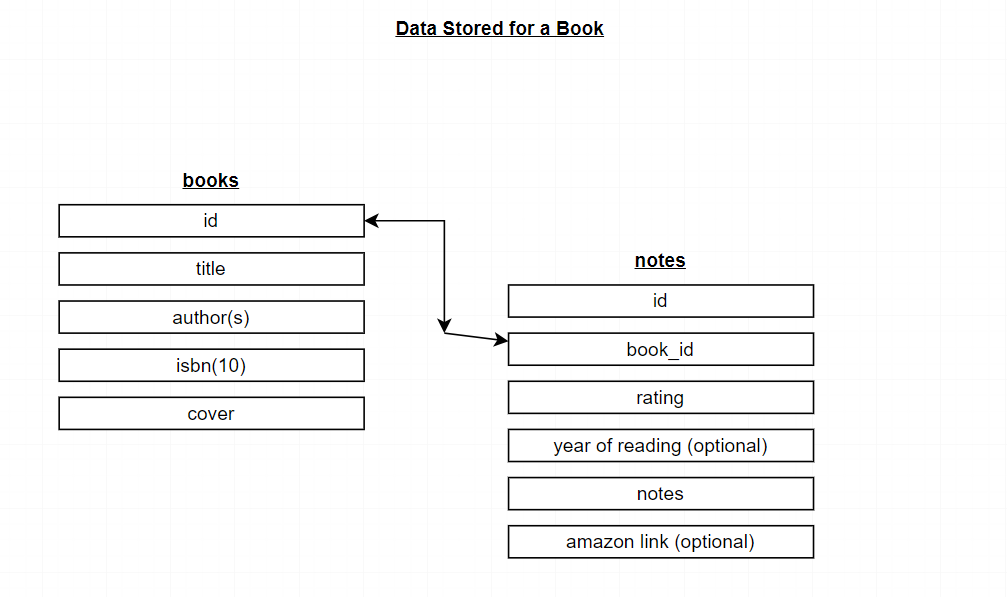
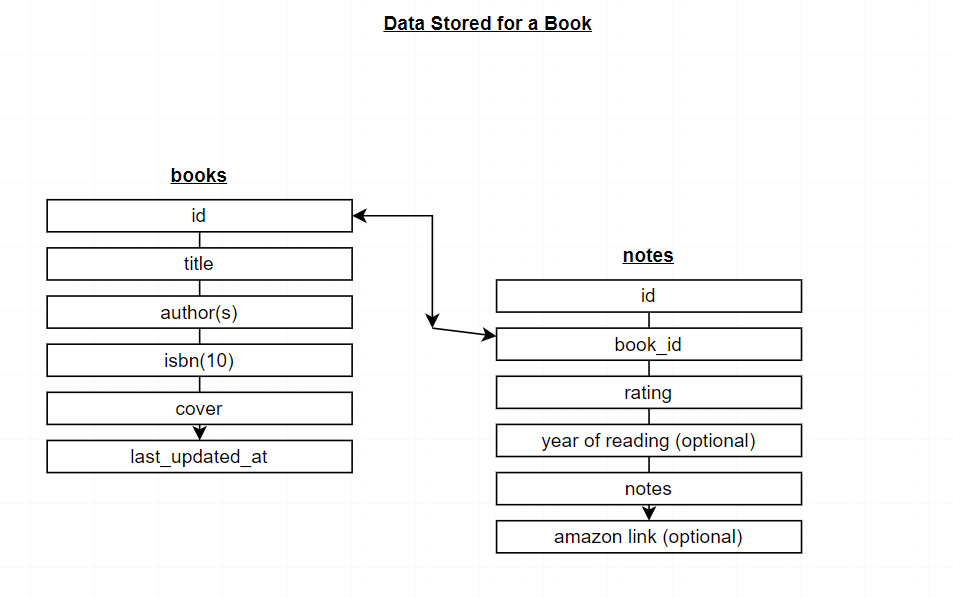
updated database structure

Changed region(s): [[0.0304, 0.2714, 0.852, 0.9347], [0.3956, 0.0302, 0.639, 0.0603]]

diff --git a/server.js b/server.js
@@ -24,7 +24,7 @@ db.connect();
 app.use(bodyParser.urlencoded({ extended: true}));
 app.use(express.static("public"));
 
-const OrderBooksAndNotesBy = "notes.id DESC"; // recency, latest updated notes (default)
+const OrderBooksAndNotesBy = "books.last_updated_at DESC"; // recency, latest updated notes (default)
 
 async function checkBookAndNotes() {
     let booksAndNotes = [];
@@ -126,14 +126,6 @@ app.post("/create-new-notes", async (req, res) => {
     res.redirect("/");
 });
 
-//  if (eTitle.trim().length > 41 || eContent.trim().length > 16160) {
-//     let error = "ERROR! Title or Content too Long! Please Go back to the previous page and try again!";
-//     return res.status(400).send(error);
-//   };
-//   if (eTitle.trim().length ===0 || eContent.trim().length ===0 ) {
-//     let error = "ERROR! Your Essay either lacks a title or content or both. Please Go back to the previous page and try again!";
-//     return res.status(400).send(error);
-//   };
 
 
 
